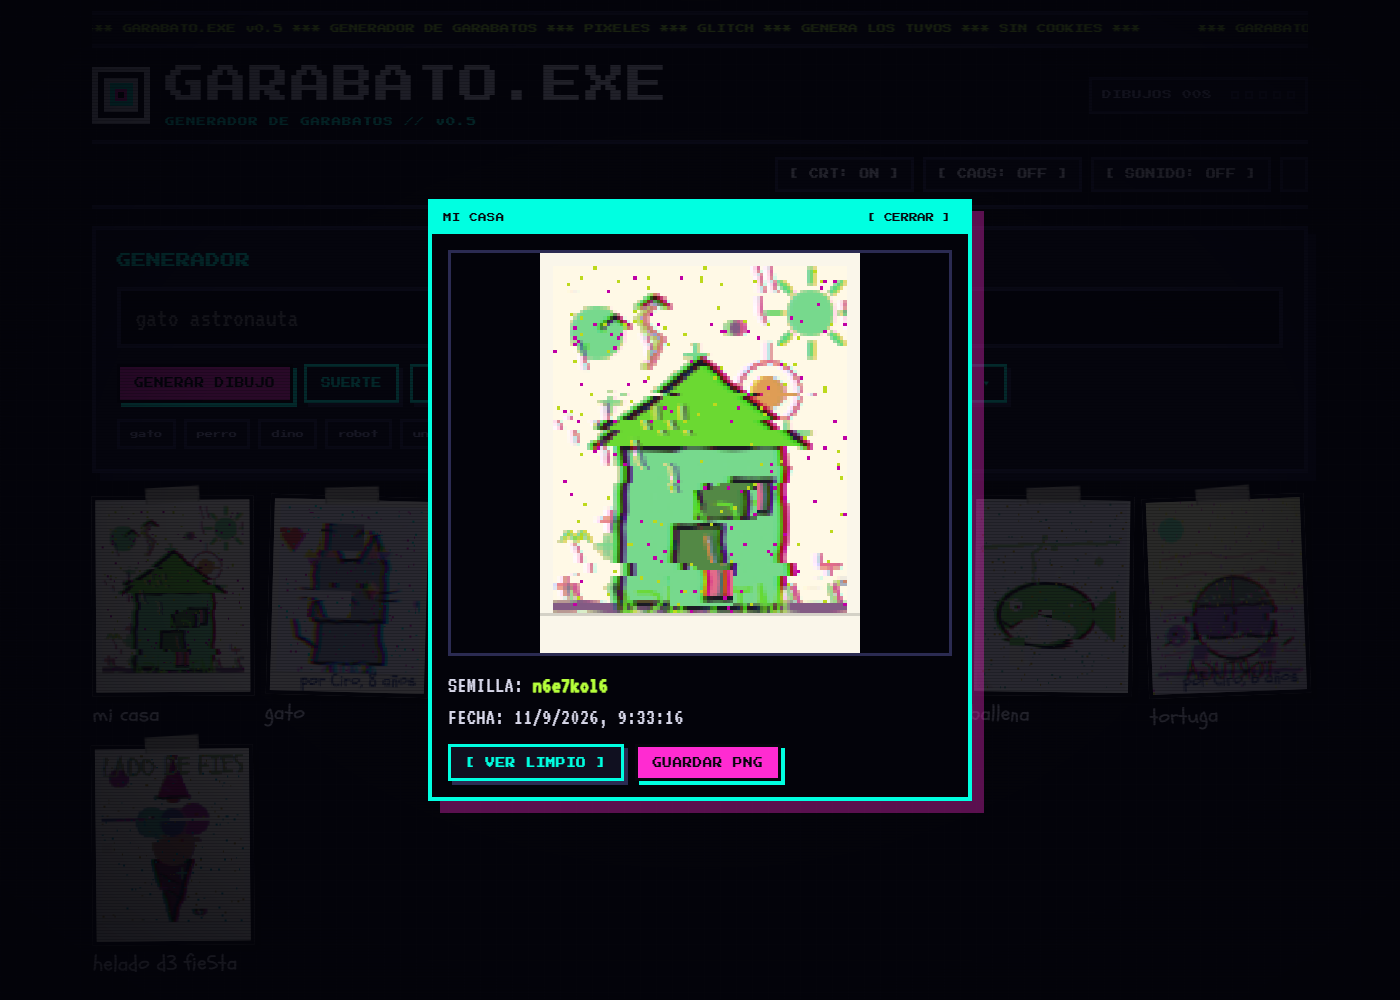
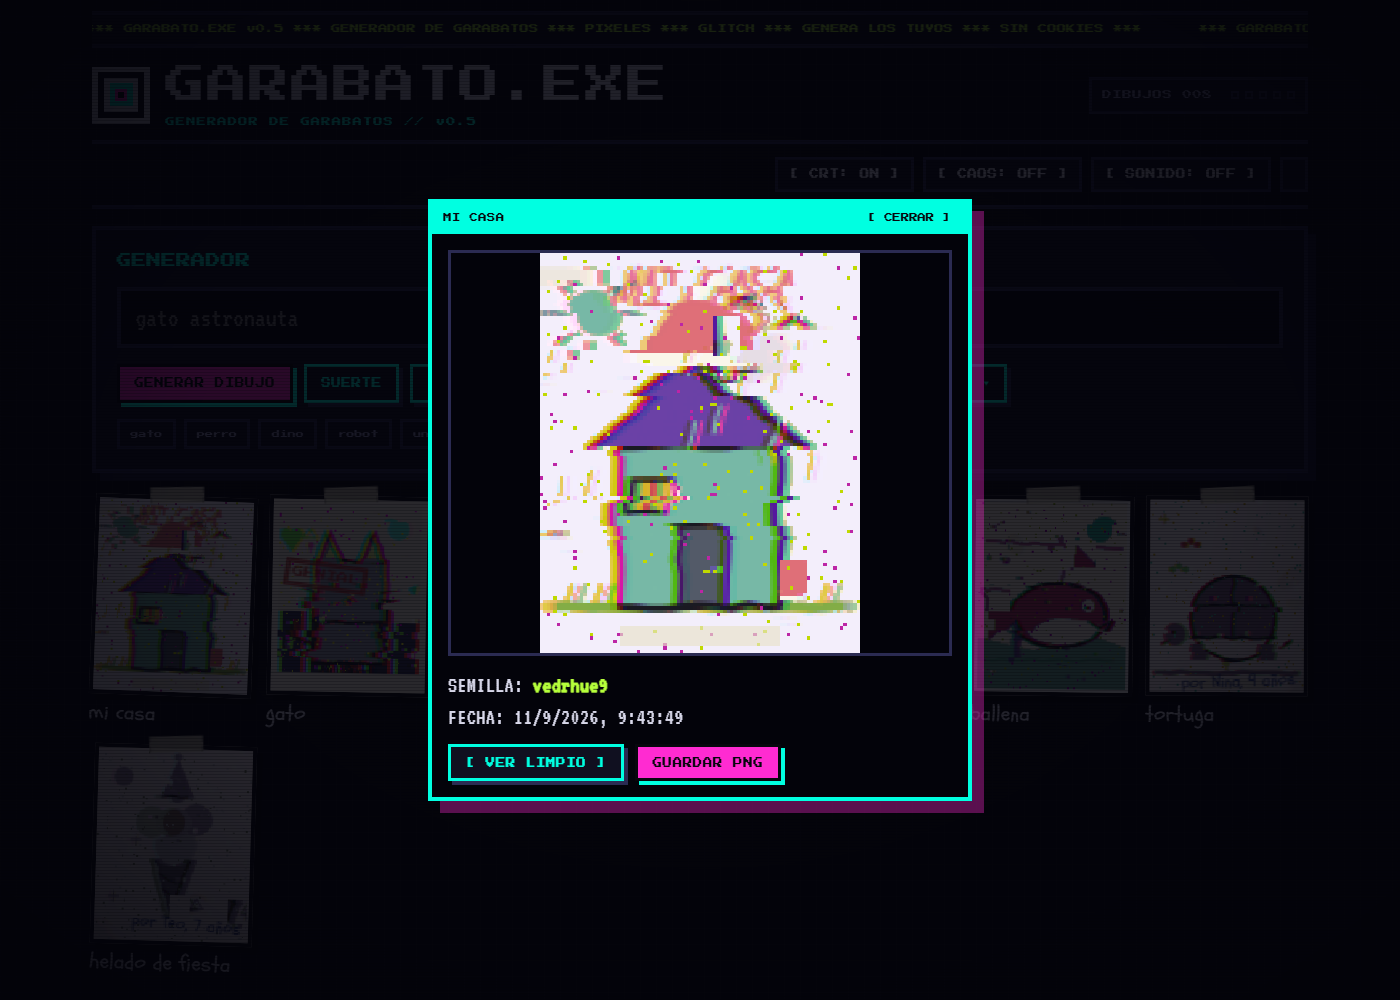
Cambia la lluvia de letras por garabatos flotantes de fondo

diff --git a/js/zetetica.js b/js/zetetica.js
@@ -162,56 +162,160 @@
     });
   }
 
-  var lluvia = document.createElement("canvas");
-  lluvia.id = "lluvia";
-  lluvia.setAttribute("aria-hidden", "true");
-  document.body.appendChild(lluvia);
-  var ctxLluvia = lluvia.getContext("2d");
-  var glifos = "01<>[]{}=+*/#@$%&?ABCDEF";
-  var celda = 16;
-  var columnas = 0;
-  var posiciones = [];
+  var lienzoGarabatos = document.createElement("canvas");
+  lienzoGarabatos.id = "garabatos";
+  lienzoGarabatos.setAttribute("aria-hidden", "true");
+  document.body.appendChild(lienzoGarabatos);
+  var ctxGarabatos = lienzoGarabatos.getContext("2d");
+  var garabatosFondo = [];
+  var tiposGarabato = ["espiral", "estrella", "cubo", "corazon", "flecha", "interrogacion", "rayo", "cara", "cuadro", "onda"];
 
-  var ajustarLluvia = function () {
-    lluvia.width = window.innerWidth;
-    lluvia.height = window.innerHeight;
-    columnas = Math.ceil(lluvia.width / celda);
-    posiciones = [];
-    for (var i = 0; i < columnas; i++) {
-      posiciones.push(Math.random() * (lluvia.height / celda));
+  var ajustarGarabatos = function () {
+    lienzoGarabatos.width = window.innerWidth;
+    lienzoGarabatos.height = window.innerHeight;
+    garabatosFondo = [];
+    var cantidad = Math.min(22, Math.max(10, Math.round(window.innerWidth / 90)));
+    for (var i = 0; i < cantidad; i++) {
+      garabatosFondo.push({
+        x: Math.random() * lienzoGarabatos.width,
+        y: Math.random() * lienzoGarabatos.height,
+        tipo: tiposGarabato[Math.floor(Math.random() * tiposGarabato.length)],
+        tam: 8 + Math.random() * 14,
+        vel: 0.12 + Math.random() * 0.3,
+        fase: Math.random() * Math.PI * 2,
+        giro: (Math.random() - 0.5) * 0.004,
+        ang: Math.random() * Math.PI * 2,
+        alfa: 0.15 + Math.random() * 0.2,
+        tono: Math.random()
+      });
     }
   };
-  ajustarLluvia();
-  window.addEventListener("resize", ajustarLluvia);
 
-  var pasoLluvia = function () {
+  var tintaGarabato = function (tono) {
+    if (tono < 0.6) {
+      return "0, 255, 225";
+    }
+    if (tono < 0.85) {
+      return "216, 216, 234";
+    }
+    return "255, 43, 209";
+  };
+
+  var pintarGarabato = function (g) {
+    var ctx = ctxGarabatos;
+    var t = g.tam;
+    ctx.save();
+    ctx.translate(g.x, g.y);
+    ctx.rotate(g.ang);
+    ctx.strokeStyle = "rgba(" + tintaGarabato(g.tono) + ", " + g.alfa + ")";
+    ctx.lineWidth = 1.2;
+    ctx.lineCap = "round";
+    ctx.beginPath();
+    var i;
+    var a;
+    if (g.tipo === "espiral") {
+      for (a = 0; a < Math.PI * 5; a += 0.3) {
+        var r = (a / (Math.PI * 5)) * t;
+        if (a === 0) {
+          ctx.moveTo(Math.cos(a) * r, Math.sin(a) * r);
+        } else {
+          ctx.lineTo(Math.cos(a) * r, Math.sin(a) * r);
+        }
+      }
+    } else if (g.tipo === "estrella") {
+      for (i = 0; i <= 10; i++) {
+        var rr = i % 2 === 0 ? t : t * 0.42;
+        var aa = -Math.PI / 2 + (i * Math.PI) / 5;
+        if (i === 0) {
+          ctx.moveTo(Math.cos(aa) * rr, Math.sin(aa) * rr);
+        } else {
+          ctx.lineTo(Math.cos(aa) * rr, Math.sin(aa) * rr);
+        }
+      }
+    } else if (g.tipo === "cubo") {
+      var s = t * 0.55;
+      ctx.rect(-s, -s, s * 2, s * 2);
+      ctx.moveTo(-s, -s);
+      ctx.lineTo(-s + s * 0.5, -s - s * 0.5);
+      ctx.lineTo(s * 1.5, -s - s * 0.5);
+      ctx.lineTo(s, -s);
+      ctx.moveTo(s, s);
+      ctx.lineTo(s * 1.5, s * 0.5);
+      ctx.lineTo(s * 1.5, -s - s * 0.5);
+    } else if (g.tipo === "corazon") {
+      ctx.moveTo(0, t * 0.7);
+      ctx.bezierCurveTo(-t, -t * 0.2, -t * 0.5, -t * 0.9, 0, -t * 0.3);
+      ctx.bezierCurveTo(t * 0.5, -t * 0.9, t, -t * 0.2, 0, t * 0.7);
+    } else if (g.tipo === "flecha") {
+      ctx.moveTo(-t, t * 0.6);
+      ctx.lineTo(t, -t * 0.6);
+      ctx.moveTo(t, -t * 0.6);
+      ctx.lineTo(t * 0.3, -t * 0.45);
+      ctx.moveTo(t, -t * 0.6);
+      ctx.lineTo(t * 0.75, 0);
+    } else if (g.tipo === "interrogacion") {
+      ctx.arc(0, -t * 0.25, t * 0.35, Math.PI, Math.PI * 1.8);
+      ctx.moveTo(t * 0.26, t * 0.05);
+      ctx.lineTo(0, t * 0.32);
+      ctx.moveTo(0, t * 0.75);
+      ctx.lineTo(0.01, t * 0.78);
+    } else if (g.tipo === "rayo") {
+      ctx.moveTo(t * 0.1, -t);
+      ctx.lineTo(-t * 0.25, -t * 0.1);
+      ctx.lineTo(t * 0.05, -t * 0.05);
+      ctx.lineTo(-t * 0.1, t);
+    } else if (g.tipo === "cara") {
+      ctx.arc(0, 0, t * 0.65, 0, Math.PI * 2);
+      ctx.moveTo(-t * 0.22, -t * 0.12);
+      ctx.lineTo(-t * 0.18, -t * 0.07);
+      ctx.moveTo(t * 0.22, -t * 0.12);
+      ctx.lineTo(t * 0.18, -t * 0.07);
+      ctx.moveTo(-t * 0.28, t * 0.2);
+      ctx.quadraticCurveTo(0, t * 0.45, t * 0.28, t * 0.2);
+    } else if (g.tipo === "cuadro") {
+      ctx.rect(-t * 0.55, -t * 0.55, t * 1.1, t * 1.1);
+      ctx.moveTo(-t * 0.55, -t * 0.55);
+      ctx.lineTo(t * 0.55, t * 0.55);
+      ctx.moveTo(t * 0.55, -t * 0.55);
+      ctx.lineTo(-t * 0.55, t * 0.55);
+    } else {
+      ctx.moveTo(-t, 0);
+      ctx.quadraticCurveTo(-t * 0.5, -t * 0.5, 0, 0);
+      ctx.quadraticCurveTo(t * 0.5, t * 0.5, t, 0);
+    }
+    ctx.stroke();
+    ctx.restore();
+  };
+
+  var pasoGarabatos = function () {
     if (document.hidden || raiz.classList.contains("modo-ligero")) {
       return;
     }
-    if (raiz.getAttribute("data-tema") === "dia") {
-      ctxLluvia.clearRect(0, 0, lluvia.width, lluvia.height);
-      return;
-    }
-    ctxLluvia.globalCompositeOperation = "destination-out";
-    ctxLluvia.fillStyle = "rgba(0, 0, 0, 0.09)";
-    ctxLluvia.fillRect(0, 0, lluvia.width, lluvia.height);
-    ctxLluvia.globalCompositeOperation = "source-over";
-    ctxLluvia.font = celda + "px monospace";
-    for (var i = 0; i < columnas; i++) {
-      var glifo = glifos.charAt(Math.floor(Math.random() * glifos.length));
-      var y = posiciones[i] * celda;
-      var tinta = Math.random();
-      ctxLluvia.fillStyle = tinta < 0.08 ? "#ff2bd1" : (tinta < 0.22 ? "#d8d8ea" : "#00ffe1");
-      ctxLluvia.fillText(glifo, i * celda, y);
-      if (y > lluvia.height && Math.random() > 0.972) {
-        posiciones[i] = 0;
-      } else {
-        posiciones[i] += 1;
+    ctxGarabatos.clearRect(0, 0, lienzoGarabatos.width, lienzoGarabatos.height);
+    var ahora = Date.now() / 1000;
+    garabatosFondo.forEach(function (g) {
+      g.y += g.vel;
+      g.x += Math.sin(ahora * 0.6 + g.fase) * 0.15;
+      g.ang += g.giro;
+      if (g.y - g.tam > lienzoGarabatos.height) {
+        g.y = -g.tam * 2;
+        g.x = Math.random() * lienzoGarabatos.width;
       }
-    }
+      if (g.x < -g.tam * 2) {
+        g.x = lienzoGarabatos.width + g.tam;
+      }
+      if (g.x > lienzoGarabatos.width + g.tam * 2) {
+        g.x = -g.tam;
+      }
+      pintarGarabato(g);
+    });
   };
+
+  ajustarGarabatos();
+  window.addEventListener("resize", ajustarGarabatos);
+  pasoGarabatos();
   if (!reducir) {
-    setInterval(pasoLluvia, 90);
+    setInterval(pasoGarabatos, 120);
   }
 
   var sprites = document.createElement("canvas");

diff --git a/css/estilo.css b/css/estilo.css
@@ -90,7 +90,7 @@ html[data-tema="dia"] body::after {
   display: none;
 }
 
-#lluvia {
+#garabatos {
   position: fixed;
   inset: 0;
   z-index: 0;
@@ -98,7 +98,7 @@ html[data-tema="dia"] body::after {
   pointer-events: none;
 }
 
-html[data-tema="dia"] #lluvia {
+html[data-tema="dia"] #garabatos {
   display: none;
 }
 
@@ -1421,9 +1421,6 @@ a.etiqueta-chip:hover {
     transition: none !important;
   }
 
-  #lluvia {
-    display: none;
-  }
 }
 
 .libro h2 {
@@ -1731,7 +1728,7 @@ ul.check li.hecho::before {
 
   body::before,
   body::after,
-  #lluvia,
+  #garabatos,
   #glitch-burst,
   .cabecera,
   .pie,
@@ -1913,8 +1910,8 @@ html.modo-caos .dibujo canvas {
   opacity: 0.35;
 }
 
-#lluvia {
-  opacity: 0.42;
+#garabatos {
+  opacity: 0.85;
 }
 
 
@@ -2077,7 +2074,7 @@ html.modo-tv .dibujo canvas {
   animation: hervir 0.4s steps(2) infinite;
 }
 
-html.modo-ligero #lluvia,
+html.modo-ligero #garabatos,
 html.modo-ligero #sprites,
 html.modo-ligero #banda,
 html.modo-ligero #glitch-burst {
